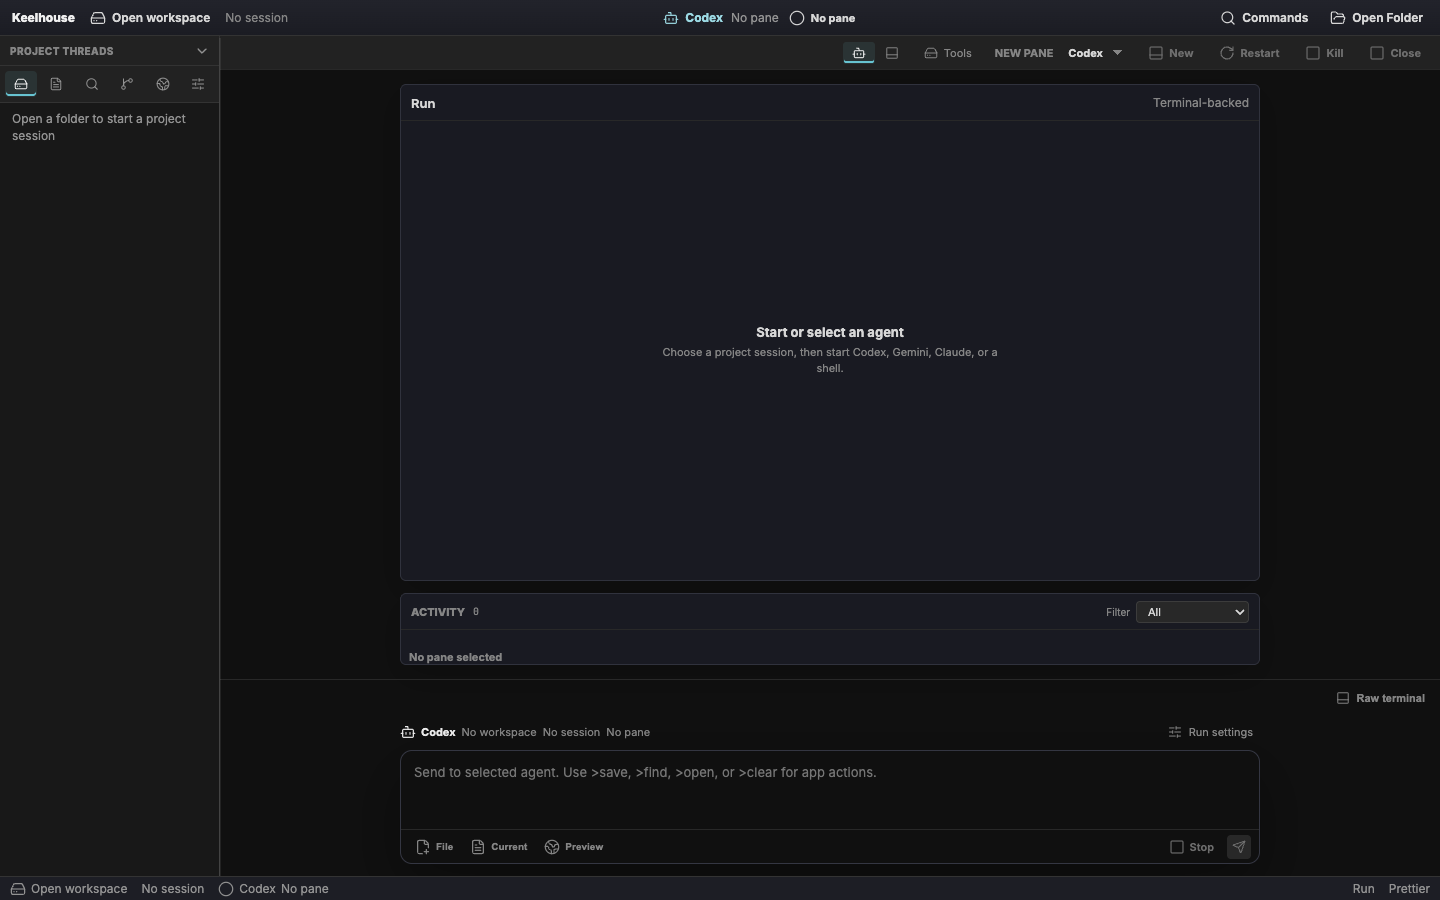
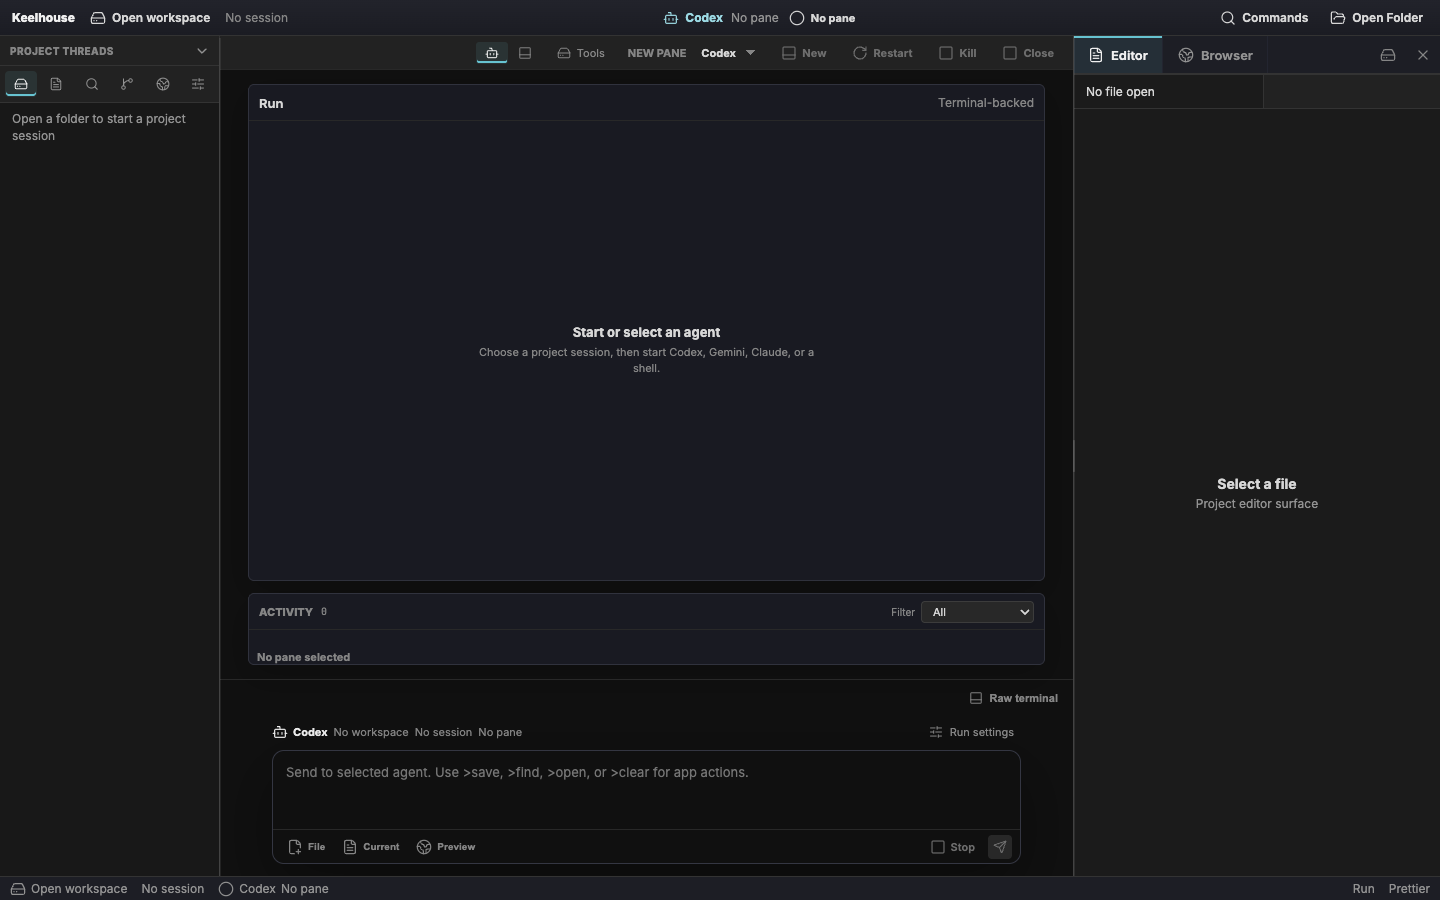
feat: first open shows the demo layout (FIRST-OPEN-LAYOUT)
Default workbench layout flips hidden->right so first open shows the
threads drawer, centered run+composer, and the tabbed tool tray on
Editor; contract gate assertion updated to the new default. Adds a
Reset Layout to Demo Default palette command and Open Folder / Use
Shell profile recovery actions on the launch-error banner.

Claude-Session: https://claude.ai/code/session_015NySDqLP892KzTj9h7XP5v

diff --git a/app/src/App.tsx b/app/src/App.tsx
@@ -2878,6 +2878,17 @@ function App() {
       run: () => void pickWorkspace(),
     },
     {
+      id: "layout.reset-demo",
+      label: "Reset Layout to Demo Default",
+      detail: "Tray docked right on Editor, drawer visible",
+      icon: "workspace",
+      keywords: ["layout", "tray", "dock", "first open", "demo"],
+      run: () => {
+        setWorkbenchLayout("right");
+        setToolTrayMode("editor");
+      },
+    },
+    {
       id: "workspace.quick-open",
       label: "Quick Open",
       detail: workspacePath ? "Open files by name or path" : "Open a folder before quick open",
@@ -4862,7 +4873,25 @@ function App() {
 
       {launchError ? (
         <div className="launch-error" role="alert">
-          {launchError}
+          <span className="launch-error__message">{launchError}</span>
+          <span className="launch-error__actions">
+            <button className="editor-command" type="button" onClick={() => void pickWorkspace()}>
+              <AppIcon name="folderOpen" />
+              <span>Open Folder</span>
+            </button>
+            <button
+              className="editor-command"
+              type="button"
+              disabled={launchProfileChanging || launchProfile.id === "shell"}
+              onClick={() => {
+                const shell = LAUNCH_PROFILES.find((profile) => profile.id === "shell");
+                if (shell) void switchLaunchProfile(shell);
+              }}
+            >
+              <AppIcon name="terminal" />
+              <span>Use Shell profile</span>
+            </button>
+          </span>
         </div>
       ) : null}
       {contextMenu ? (

diff --git a/app/src/App.css b/app/src/App.css
@@ -3704,14 +3704,29 @@ body,
   right: 16px;
   bottom: 16px;
   z-index: 10;
+  display: flex;
   max-width: 920px;
+  align-items: center;
+  gap: 12px;
+  flex-wrap: wrap;
   padding: 12px 14px;
   border: 1px solid var(--color-danger-border);
   border-radius: 8px;
   background: var(--color-danger-bg);
   color: #ffd6dd;
-  font: 13px/1.4 system-ui, -apple-system, BlinkMacSystemFont, "Segoe UI", sans-serif;
+  font: 13px/1.4 var(--font-ui);
   box-shadow: 0 12px 40px rgba(0, 0, 0, 0.38);
+}
+
+.launch-error__message {
+  flex: 1 1 320px;
+  min-width: 0;
+}
+
+.launch-error__actions {
+  display: inline-flex;
+  flex: 0 0 auto;
+  gap: 8px;
 }
 
 .draft-modal-backdrop {

diff --git a/roadmap.html b/roadmap.html
@@ -325,6 +325,10 @@ h2.s-later{color:#c084fc;border-left-color:#c084fc}
 <div class="hd"><span class="sz">M</span><span class="ttl">TRAY-TAB-CHROME &middot; Tabbed tray chrome, movable docks</span><span class="lens l-ui">Chrome + interaction</span></div>
 <div class="badges"><span class="me ver">v1</span></div><p class="sum">Hybrid tray navigation: keep useWorkbenchLayout docking (left/right/bottom, resizable, persisted) while the docked tray renders the demo tab-strip chrome: a 38px strip (Editor, Browser, split toggle, hide) with steel-cyan top-underline actives, plus the 34px bottom variant. Documented exception (chrome-contract.md): Files/Git stay drawer surfaces instead of duplicating into tray tabs. The Tools popover shrinks to dock-position-only; the strip owns surface switching.</p>
 <details><summary>Done criteria</summary><p class="done">Tabbed tray chrome works in all three dock positions and split mode; open/close/move/resize persists; the Files/Git exception is documented in docs/chrome-contract.md for CHROME-EYEBALL-SIGNOFF review; screenshots cover left, right, and bottom docks. Executed 2026-07-11: strip verified in right/left/bottom docks (docs/qa/chrome-delta/tray-tabs-*.png), Tools popover position-only, Files/Git exception documented.</p></details></div>
+<div class="card" data-track="ui" data-id="FIRST-OPEN-LAYOUT" data-size="S" data-tier="pebble" data-launch="v1">
+<div class="hd"><span class="sz">S</span><span class="ttl">FIRST-OPEN-LAYOUT &middot; First open shows demo layout</span><span class="lens l-ui">Chrome + interaction</span></div>
+<div class="badges"><span class="me ver">v1</span></div><p class="sum">First-open default becomes the demo layout: threads drawer open, centered run and composer, right dock open on Files, bottom tray strip visible, statusbar. Changes the default workbench layout from hidden; returning users keep their persisted layout. Supersedes the 2026-07-10 hidden-first-open correction with a DECISIONS.md entry. Blind-audit 2026-07-11 additions: if the default agent launch fails on first open, the run card shows an inline recovery banner (error, Open Folder/Settings pointers, shell-profile fallback); a discoverable Reset-layout-to-demo action exists for returning users.</p>
+<details><summary>Done criteria</summary><p class="done">A fresh store launch opens the demo arrangement at 1440 and the first-open screenshot visually matches the demo reference; persisted layouts are unaffected (tested with a seeded store); a seeded failing launch profile shows the recovery banner; reset-to-demo works; qa:shell first-open captures re-baselined; DECISIONS.md entry appended. Executed 2026-07-11: default flipped to right/editor, gate assertion updated, first-open captures re-baselined and visually match the demo arrangement, reset-to-demo palette command added, launch-failure recovery actions (Open Folder / Use Shell profile) on the error banner; persisted layouts honored (seeded-store captures during TRAY-TAB-CHROME proved left/bottom persistence). DECISIONS.md 2026-07-11 records the supersession.</p></details></div>
 <div class="card" data-track="ui" data-id="OVERLAY-PARITY" data-size="S" data-tier="pebble" data-launch="v1">
 <div class="hd"><span class="sz">S</span><span class="ttl">OVERLAY-PARITY &middot; Menus and palette demo parity</span><span class="lens l-ui">Chrome + interaction</span></div>
 <div class="badges"><span class="me ver">v1</span></div><p class="sum">Align existing overlays to the demo spec. Context menus: 6px radius, 252px minimum width, 24px uppercase mono section labels, 28px icon/label/shortcut rows, quiet hover. Command palette: 640px, 10px radius, 42px input, 32px rows with left-stripe active. Overlay scrim with blur. The settings modal spec (900x560, 230px left-stripe nav, 48px setting rows) is recorded in docs but ships with SETTINGS.</p>
@@ -425,10 +429,6 @@ h2.s-later{color:#c084fc;border-left-color:#c084fc}
 <div class="hd"><span class="sz">S</span><span class="ttl">TITLEBAR-STATUSBAR-PARITY &middot; Titlebar and statusbar parity</span><span class="lens l-ui">Chrome + interaction</span></div>
 <div class="badges"><span class="me ver">v1</span></div><p class="sum">36px titlebar with the demo gradient, centered workspace crumb (strong project name plus faint branch from real git status), flat right action cluster with an accent-strong agent chip; 24px statusbar with three 12px sections: branch/sync/errors, agent status/panes, and shortcut hints.</p>
 <details><summary>Done criteria</summary><p class="done">Titlebar and statusbar match the spec at all three QA widths; all existing titlebar actions remain reachable as flat labelled controls with 40px hit areas; the drag region still works in the native window.</p></details></div>
-<div class="card" data-track="ui" data-id="FIRST-OPEN-LAYOUT" data-size="S" data-tier="pebble" data-launch="v1">
-<div class="hd"><span class="sz">S</span><span class="ttl">FIRST-OPEN-LAYOUT &middot; First open shows demo layout</span><span class="lens l-ui">Chrome + interaction</span></div>
-<div class="badges"><span class="me ver">v1</span></div><p class="sum">First-open default becomes the demo layout: threads drawer open, centered run and composer, right dock open on Files, bottom tray strip visible, statusbar. Changes the default workbench layout from hidden; returning users keep their persisted layout. Supersedes the 2026-07-10 hidden-first-open correction with a DECISIONS.md entry. Blind-audit 2026-07-11 additions: if the default agent launch fails on first open, the run card shows an inline recovery banner (error, Open Folder/Settings pointers, shell-profile fallback); a discoverable Reset-layout-to-demo action exists for returning users.</p>
-<details><summary>Done criteria</summary><p class="done">A fresh store launch opens the demo arrangement at 1440 and the first-open screenshot visually matches the demo reference; persisted layouts are unaffected (tested with a seeded store); a seeded failing launch profile shows the recovery banner; reset-to-demo works; qa:shell first-open captures re-baselined; DECISIONS.md entry appended.</p></details></div>
 <div class="card" data-track="quality" data-id="CHROME-CONTRACT-V2" data-size="S" data-tier="sand" data-launch="v1">
 <div class="hd"><span class="sz">S</span><span class="ttl">CHROME-CONTRACT-V2 &middot; Chrome contract gate v2</span><span class="lens l-quality">Quality + shipping</span></div>
 <div class="badges"><span class="me ver">v1</span></div><p class="sum">Extend scripts/check-chrome-contract.mjs so boxed-button drift cannot recur silently: forbid the boxed control background on toolbar/composer/editor/browser button classes, require the text-action grammar classes, assert composer card values, run-surface centered column, sidebar section-label treatment, and tray tab-strip actives, and require docs/qa/chrome-delta side-by-side artifacts (demo reference captures plus matching app captures at 1440/1024/900). Blind-audit 2026-07-11 additions: refresh the stale pre-convergence editor-QA fixture to current chrome; titlebar crumb overflow rules (project truncates before branch, branch ellipsis over ~30 chars, detached HEAD shows short SHA); overlay side-by-side captures for context menu and palette; assert the shipped font-stack decision from CHROME-FONT-LOCK. Executes after CHROME-EYEBALL-SIGNOFF so the gate locks a human-approved state.</p>

diff --git a/app/src/workbenchLayout.test.ts b/app/src/workbenchLayout.test.ts
@@ -11,7 +11,7 @@ import {
 
 describe("workbench layout contract", () => {
   it("opens agent-first without a tool tray consuming the main surface", () => {
-    expect(DEFAULT_WORKBENCH_LAYOUT).toBe("hidden");
+    expect(DEFAULT_WORKBENCH_LAYOUT).toBe("right");
     expect(DEFAULT_TOOL_TRAY_MODE).toBe("editor");
     expect(DEFAULT_SIDE_DRAWER_WIDTH).toBeLessThanOrEqual(280);
   });

diff --git a/app/src/workbenchLayout.ts b/app/src/workbenchLayout.ts
@@ -6,7 +6,7 @@ export type WorkbenchSizing = {
   toolSplitPercent: number;
 };
 
-export const DEFAULT_WORKBENCH_LAYOUT: WorkbenchLayoutMode = "hidden";
+export const DEFAULT_WORKBENCH_LAYOUT: WorkbenchLayoutMode = "right";
 export const DEFAULT_TOOL_TRAY_MODE: ToolTrayMode = "editor";
 export const DEFAULT_WORKBENCH_SIZING: WorkbenchSizing = { trayPercent: 30, toolSplitPercent: 58 };
 export const DEFAULT_SIDE_DRAWER_WIDTH = 260;